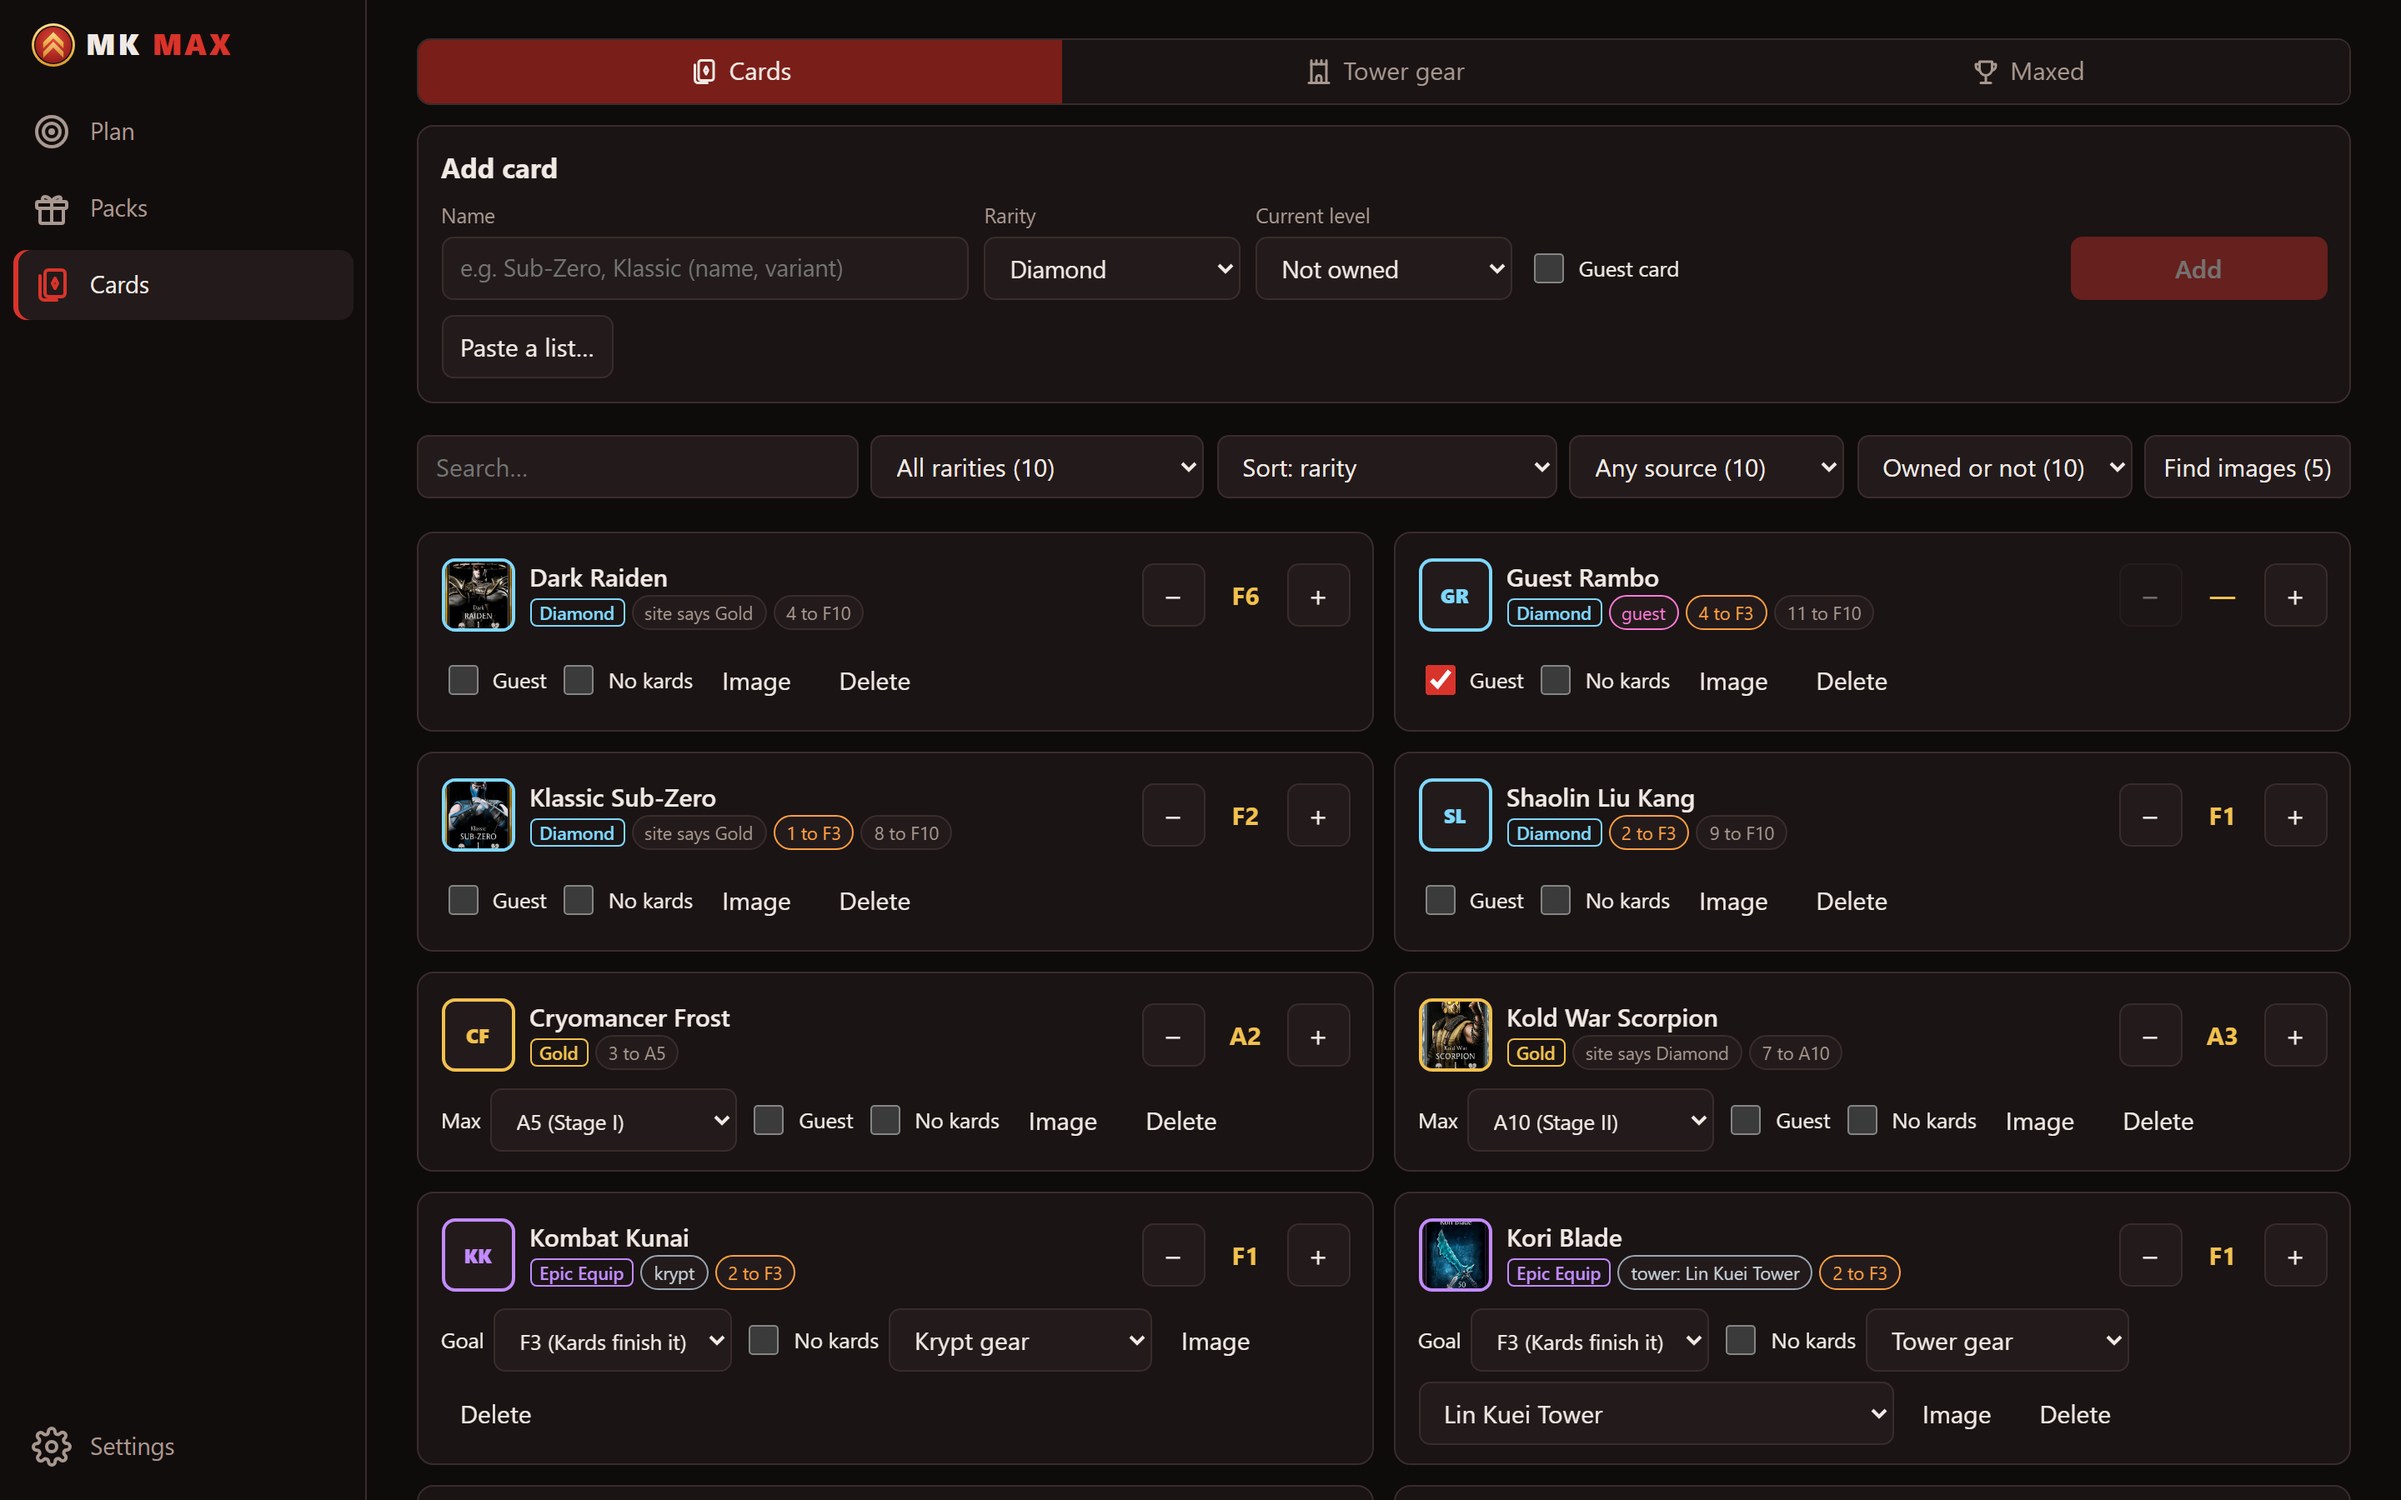
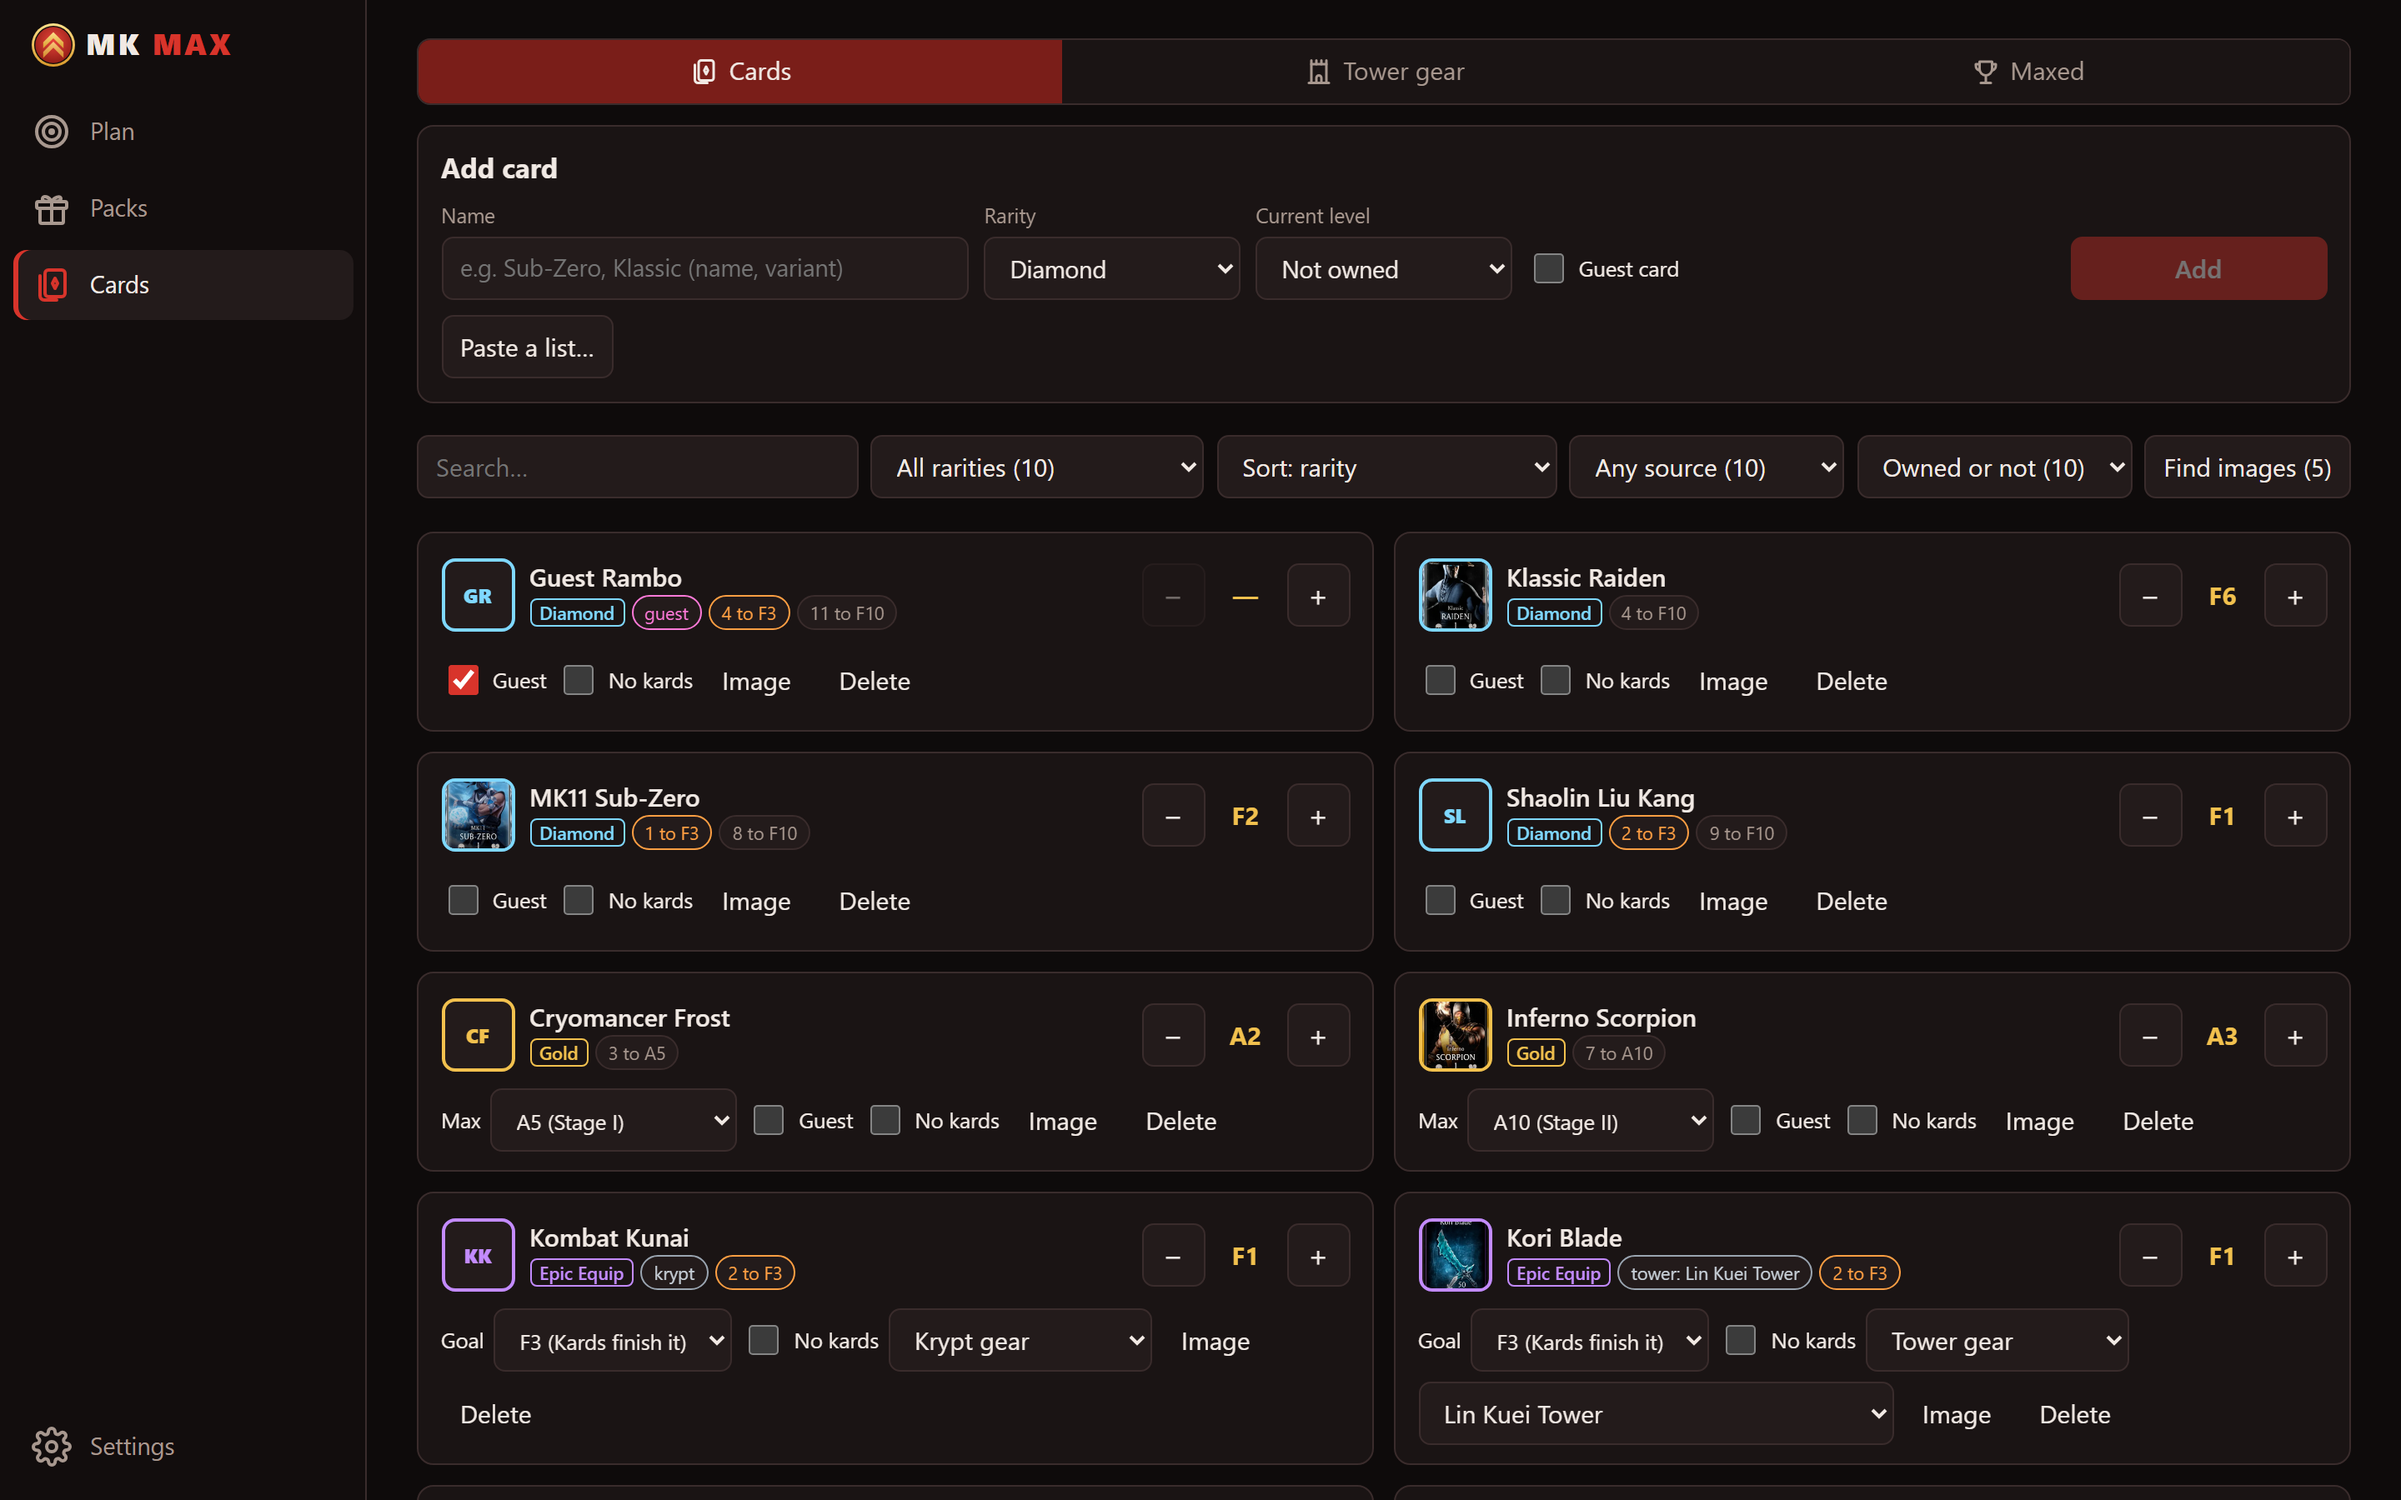
fix: use real cards at MK Mobile Base's rarity in the sample data, and retake the README screenshots

diff --git a/src/defaults.ts b/src/defaults.ts
@@ -78,11 +78,12 @@ export function sampleState(): AppState {
   s.rarities[0].fusionUpKards = 3;
   s.cards = [
     // Stored levels: 1 = F0, 3 = F2, 11 = F10, 14 = A3 …
-    { id: 'c1', name: 'Klassic Sub-Zero', rarityId: 'diamond', fusion: 3, guest: false },
+    // Cards MK Mobile Base lists keep its rarity, so loading the sample shows no rarity notice on Cards.
+    { id: 'c1', name: 'MK11 Sub-Zero', rarityId: 'diamond', fusion: 3, guest: false },
     { id: 'c2', name: 'Guest Rambo', rarityId: 'diamond', fusion: 0, guest: true },
-    { id: 'c3', name: 'Dark Raiden', rarityId: 'diamond', fusion: 7, guest: false },
+    { id: 'c3', name: 'Klassic Raiden', rarityId: 'diamond', fusion: 7, guest: false },
     { id: 'c4', name: 'Shaolin Liu Kang', rarityId: 'diamond', fusion: 2, guest: false },
-    { id: 'c5', name: 'Kold War Scorpion', rarityId: 'gold', fusion: 14, guest: false },
+    { id: 'c5', name: 'Inferno Scorpion', rarityId: 'gold', fusion: 14, guest: false },
     { id: 'c6', name: 'Cryomancer Frost', rarityId: 'gold', fusion: 13, maxLevel: 16, guest: false },
     { id: 'c7', name: 'Shadow Sash', rarityId: 'epic', fusion: 5, guest: false },
     { id: 'c8', name: 'Kombat Kunai', rarityId: 'epic', fusion: 2, guest: false, source: 'krypt' },

diff --git a/docs/user-guide.md b/docs/user-guide.md
@@ -45,7 +45,7 @@ You don't need to create currencies or rarities. You can rename, remove or add t
 
 Settings → Data → **Load sample data** loads a small made-up set:
 
-- 10 cards, such as Klassic Sub-Zero and Guest Rambo.
+- 10 cards, such as MK11 Sub-Zero and Guest Rambo.
 - 4 packs: three ending 2 to 6 days from now, and one permanent.
 - 1200 Souls, 900 Blood Rubies and 3 Diamond kards.
 
